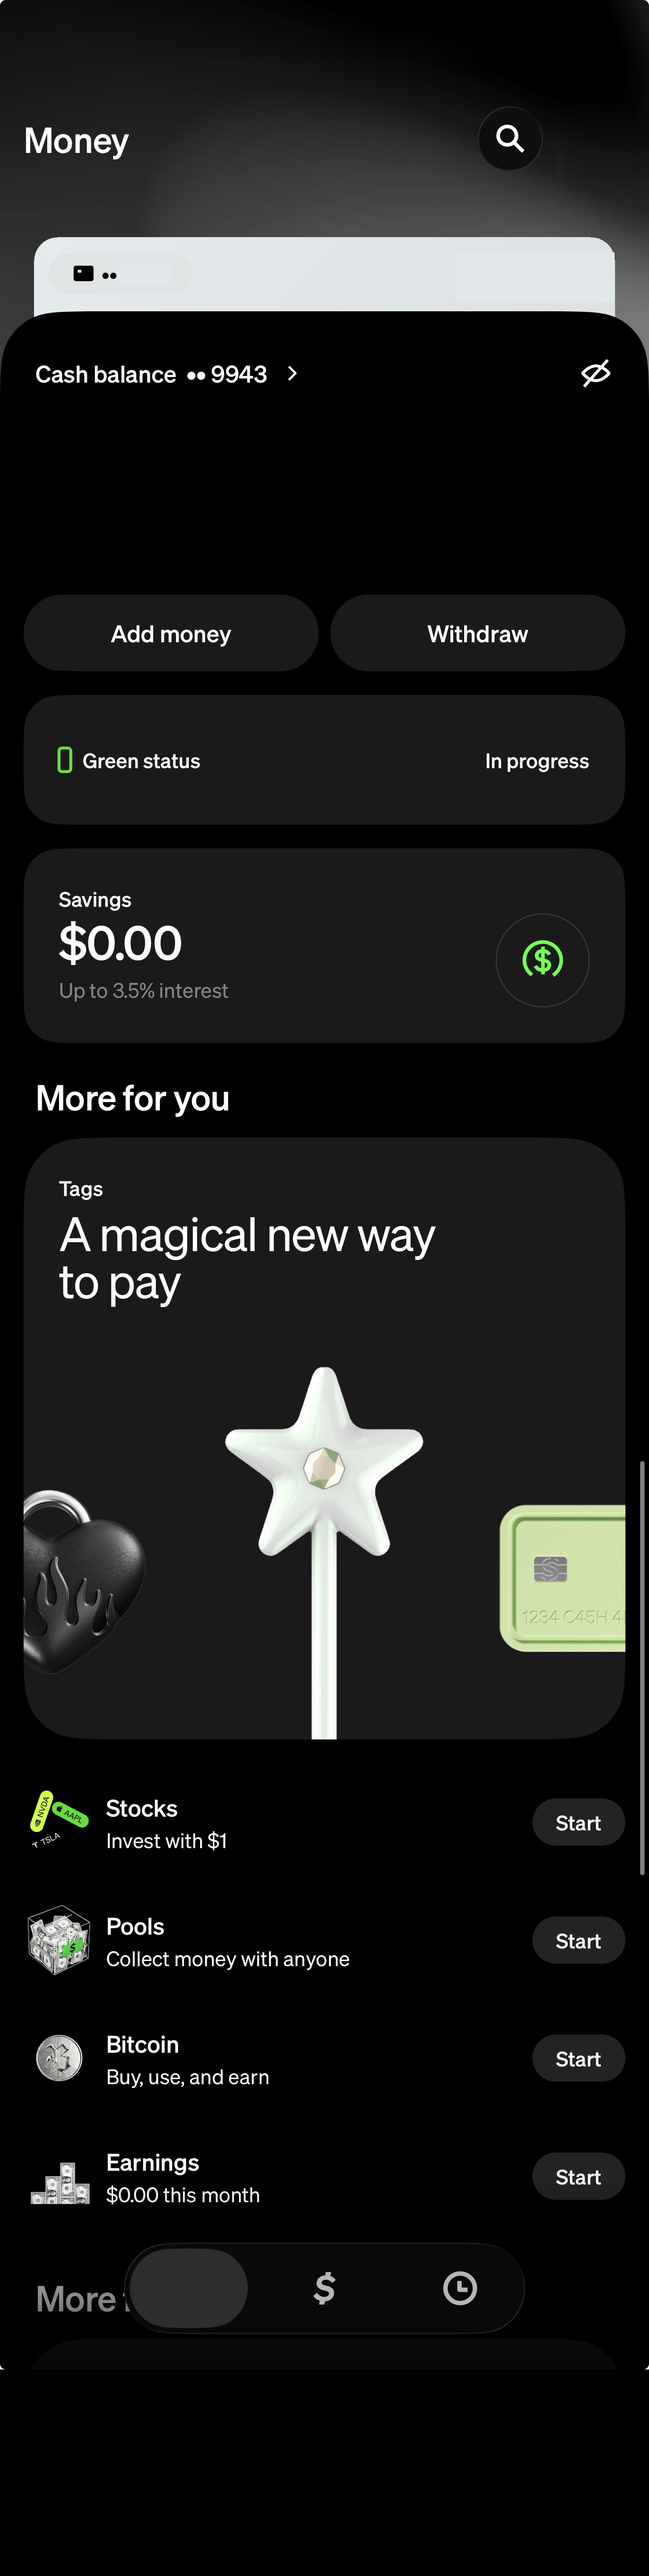
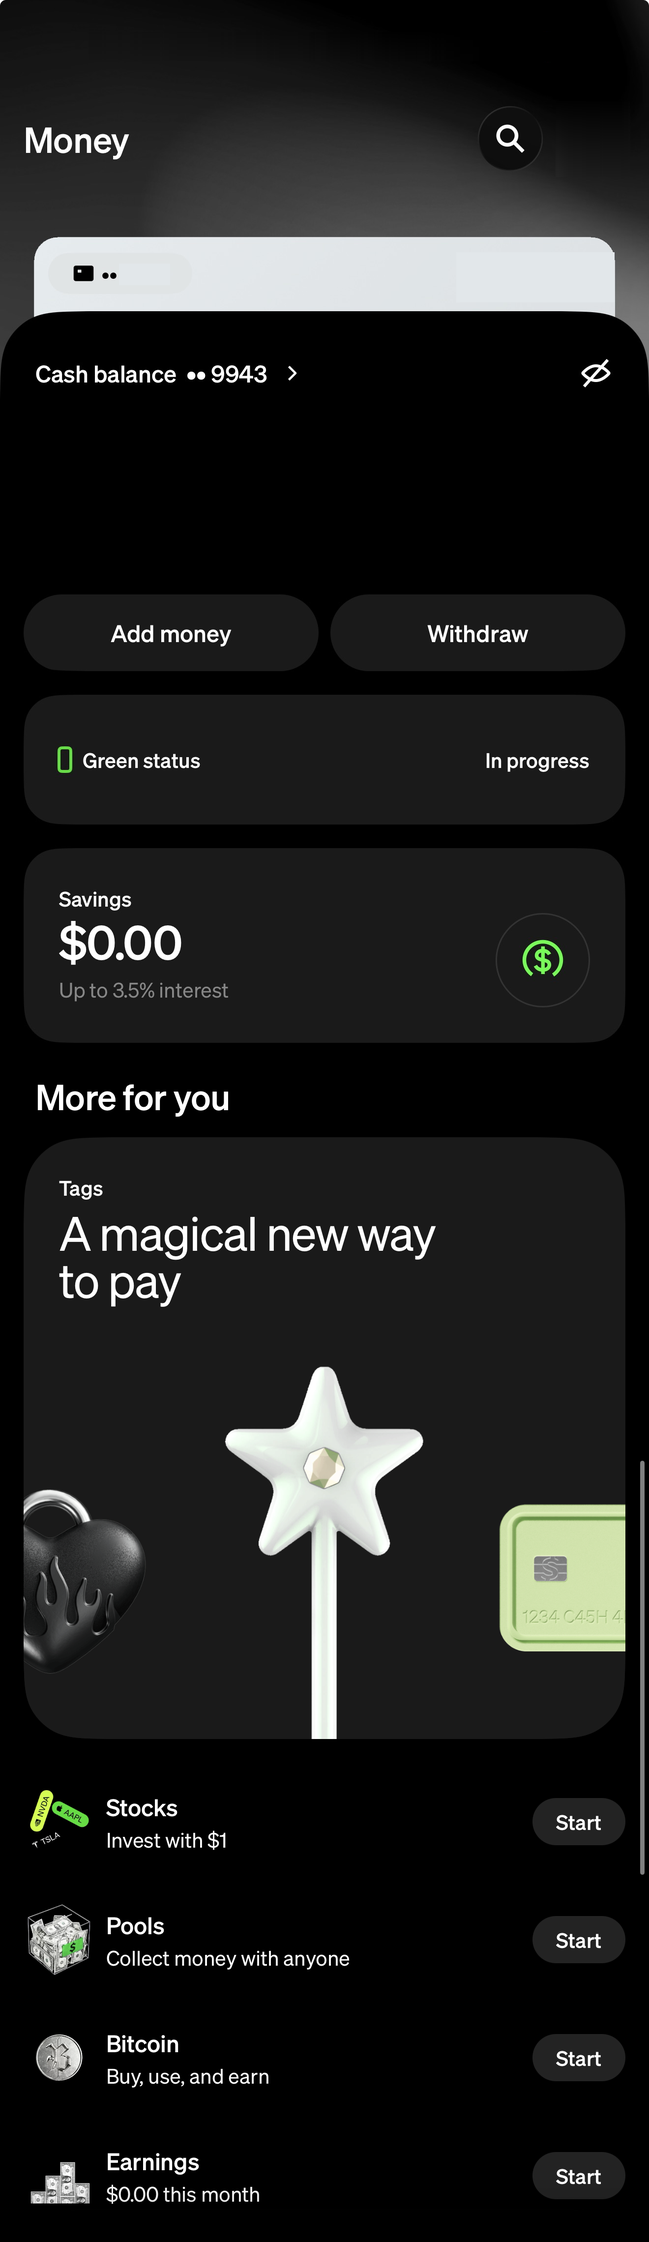
Cash App: make the $54 dock pill float fixed instead of scrolling away
The dock pill ($54 / $ / clock shortcut) was baked into the tall
scrollable money.png, so it scrolled off with the rest of the content
instead of staying anchored to the bottom of the screen like it does
in the real app.

Crop it out into its own dock.png and render it as a position:fixed
overlay (outside the .scroll container) pinned to the bottom of the
viewport via env(safe-area-inset-bottom). money.png is trimmed to end
right after the Earnings row, where the pill used to start. The
editable "$54" balance-shortcut text now overlays dock.png directly,
repositioned for its own (much smaller) coordinate space, and the
other overlays (balance, card digits, cashtag, avatar) have their
top% recomputed for the shorter money.png.

Claude-Session: https://claude.ai/code/session_016T1Jkd3oEQVgMye4WzvXzJ

diff --git a/cashapp/index.html b/cashapp/index.html
@@ -13,33 +13,36 @@
 html,body{height:var(--app-h,100%);overflow:hidden;margin:0;background:#000;touch-action:manipulation;-webkit-text-size-adjust:100%;overscroll-behavior:none}
 .wrap{position:fixed;top:0;left:0;right:0;height:var(--app-h,100%);margin:0;overflow:hidden;display:flex;justify-content:center}
 .scroll{width:100%;max-width:620px;height:100%;overflow-y:auto;-webkit-overflow-scrolling:touch;overscroll-behavior-y:contain}
-.ui{position:relative;width:100%;aspect-ratio:1320/5238;container-type:inline-size;background:top/100% 100% no-repeat url(money.png)}
-.amt{position:absolute;left:5.45%;top:17.2%;transform:translateY(-50%);font-family:"Helvetica Neue",Arial,sans-serif;font-weight:800;color:#fff;font-size:14.9cqw;line-height:1;white-space:nowrap;-webkit-user-select:none;user-select:none;cursor:pointer}
+.ui{position:relative;width:100%;aspect-ratio:1320/4560;container-type:inline-size;background:top/100% 100% no-repeat url(money.png)}
+.amt{position:absolute;left:5.45%;top:19.76%;transform:translateY(-50%);font-family:"Helvetica Neue",Arial,sans-serif;font-weight:800;color:#fff;font-size:14.9cqw;line-height:1;white-space:nowrap;-webkit-user-select:none;user-select:none;cursor:pointer}
 .amt.editing{-webkit-user-select:text;user-select:text}
-.dock{position:absolute;left:28.98%;top:88.88%;transform:translate(-50%,-50%);font-family:"Helvetica Neue",Arial,sans-serif;font-weight:700;color:#fff;font-size:5.83cqw;line-height:1;white-space:nowrap;pointer-events:none}
-.amtin{position:absolute;left:5.45%;top:17.2%;transform:translateY(-50%);font-family:"Helvetica Neue",Arial,sans-serif;font-weight:800;color:#fff;font-size:14.9cqw;line-height:1;background:transparent;border:0;outline:0;padding:0;width:70%;display:none}
+.amtin{position:absolute;left:5.45%;top:19.76%;transform:translateY(-50%);font-family:"Helvetica Neue",Arial,sans-serif;font-weight:800;color:#fff;font-size:14.9cqw;line-height:1;background:transparent;border:0;outline:0;padding:0;width:70%;display:none}
 .amt.hold{opacity:.45;transition:opacity 3s linear}
-.digits{position:absolute;left:18.64%;top:10.65%;transform:translateY(-50%);font-family:"Helvetica Neue",Arial,sans-serif;font-weight:600;color:#1c1c1e;font-size:3.1cqw;line-height:1;white-space:nowrap;cursor:pointer}
-.digitsin{position:absolute;left:18.64%;top:10.65%;transform:translateY(-50%);font-family:"Helvetica Neue",Arial,sans-serif;font-weight:600;color:#1c1c1e;font-size:3.1cqw;line-height:1;background:transparent;border:0;outline:0;padding:0;width:16%;display:none}
-.cashtag{position:absolute;right:5.3%;top:10.77%;transform:translateY(-50%);font-family:"Helvetica Neue",Arial,sans-serif;font-weight:400;color:#5b5b5e;font-size:4.3cqw;line-height:1;white-space:nowrap;cursor:pointer;text-align:right}
-.cashtagin{position:absolute;right:5.3%;top:10.77%;transform:translateY(-50%);font-family:"Helvetica Neue",Arial,sans-serif;font-weight:400;color:#5b5b5e;font-size:4.3cqw;line-height:1;background:transparent;border:0;outline:0;padding:0;width:40%;text-align:right;display:none}
+.digits{position:absolute;left:18.64%;top:12.24%;transform:translateY(-50%);font-family:"Helvetica Neue",Arial,sans-serif;font-weight:600;color:#1c1c1e;font-size:3.1cqw;line-height:1;white-space:nowrap;cursor:pointer}
+.digitsin{position:absolute;left:18.64%;top:12.24%;transform:translateY(-50%);font-family:"Helvetica Neue",Arial,sans-serif;font-weight:600;color:#1c1c1e;font-size:3.1cqw;line-height:1;background:transparent;border:0;outline:0;padding:0;width:16%;display:none}
+.cashtag{position:absolute;right:5.3%;top:12.37%;transform:translateY(-50%);font-family:"Helvetica Neue",Arial,sans-serif;font-weight:400;color:#5b5b5e;font-size:4.3cqw;line-height:1;white-space:nowrap;cursor:pointer;text-align:right}
+.cashtagin{position:absolute;right:5.3%;top:12.37%;transform:translateY(-50%);font-family:"Helvetica Neue",Arial,sans-serif;font-weight:400;color:#5b5b5e;font-size:4.3cqw;line-height:1;background:transparent;border:0;outline:0;padding:0;width:40%;text-align:right;display:none}
 .digits.hold,.cashtag.hold{opacity:.45;transition:opacity 3s linear}
-.avatar{position:absolute;left:91.36%;top:5.39%;width:11.52cqw;height:11.52cqw;transform:translate(-50%,-50%);border-radius:50%;background:#2c2c2e center/cover no-repeat;cursor:pointer}
+.avatar{position:absolute;left:91.36%;top:6.19%;width:11.52cqw;height:11.52cqw;transform:translate(-50%,-50%);border-radius:50%;background:#2c2c2e center/cover no-repeat;cursor:pointer}
 .avatarfile{display:none}
+.dockoverlay{position:absolute;left:50%;transform:translateX(-50%);bottom:calc(env(safe-area-inset-bottom,0px) + 14px);width:100%;max-width:620px;display:flex;justify-content:center;pointer-events:none}
+.dockbar{position:relative;width:61.82%;aspect-ratio:816/186;container-type:inline-size;background:center/100% 100% no-repeat url(dock.png);pointer-events:auto}
+.dock{position:absolute;left:15.99%;top:51.6%;transform:translate(-50%,-50%);font-family:"Helvetica Neue",Arial,sans-serif;font-weight:700;color:#fff;font-size:9.4cqw;line-height:1;white-space:nowrap;pointer-events:none}
 </style>
 </head>
 <body>
 <div class="wrap"><div class="scroll"><div class="ui" id="ui">
 <span class="amt" id="amt">$54.20</span>
 <input class="amtin" id="amtin" inputmode="decimal">
-<span class="dock" id="dock">$54</span>
 <span class="digits" id="digits">9427</span>
 <input class="digitsin" id="digitsin" inputmode="numeric" maxlength="4">
 <span class="cashtag" id="cashtag">$jwr2239</span>
 <input class="cashtagin" id="cashtagin">
 <div class="avatar" id="avatar"></div>
 <input type="file" accept="image/*" class="avatarfile" id="avatarfile">
-</div></div></div>
+</div></div>
+<div class="dockoverlay"><div class="dockbar"><span class="dock" id="dock">$54</span></div></div>
+</div>
 <script>
 (function(){
 function AH(){var h=innerHeight;try{var sa=navigator.standalone===true||(matchMedia&&matchMedia('(display-mode: standalone)').matches);if(sa&&innerHeight>innerWidth)h=Math.max(h,screen.height||0,(visualViewport&&visualViewport.height)||0)}catch(e){}document.documentElement.style.setProperty('--app-h',h+'px');return h}
